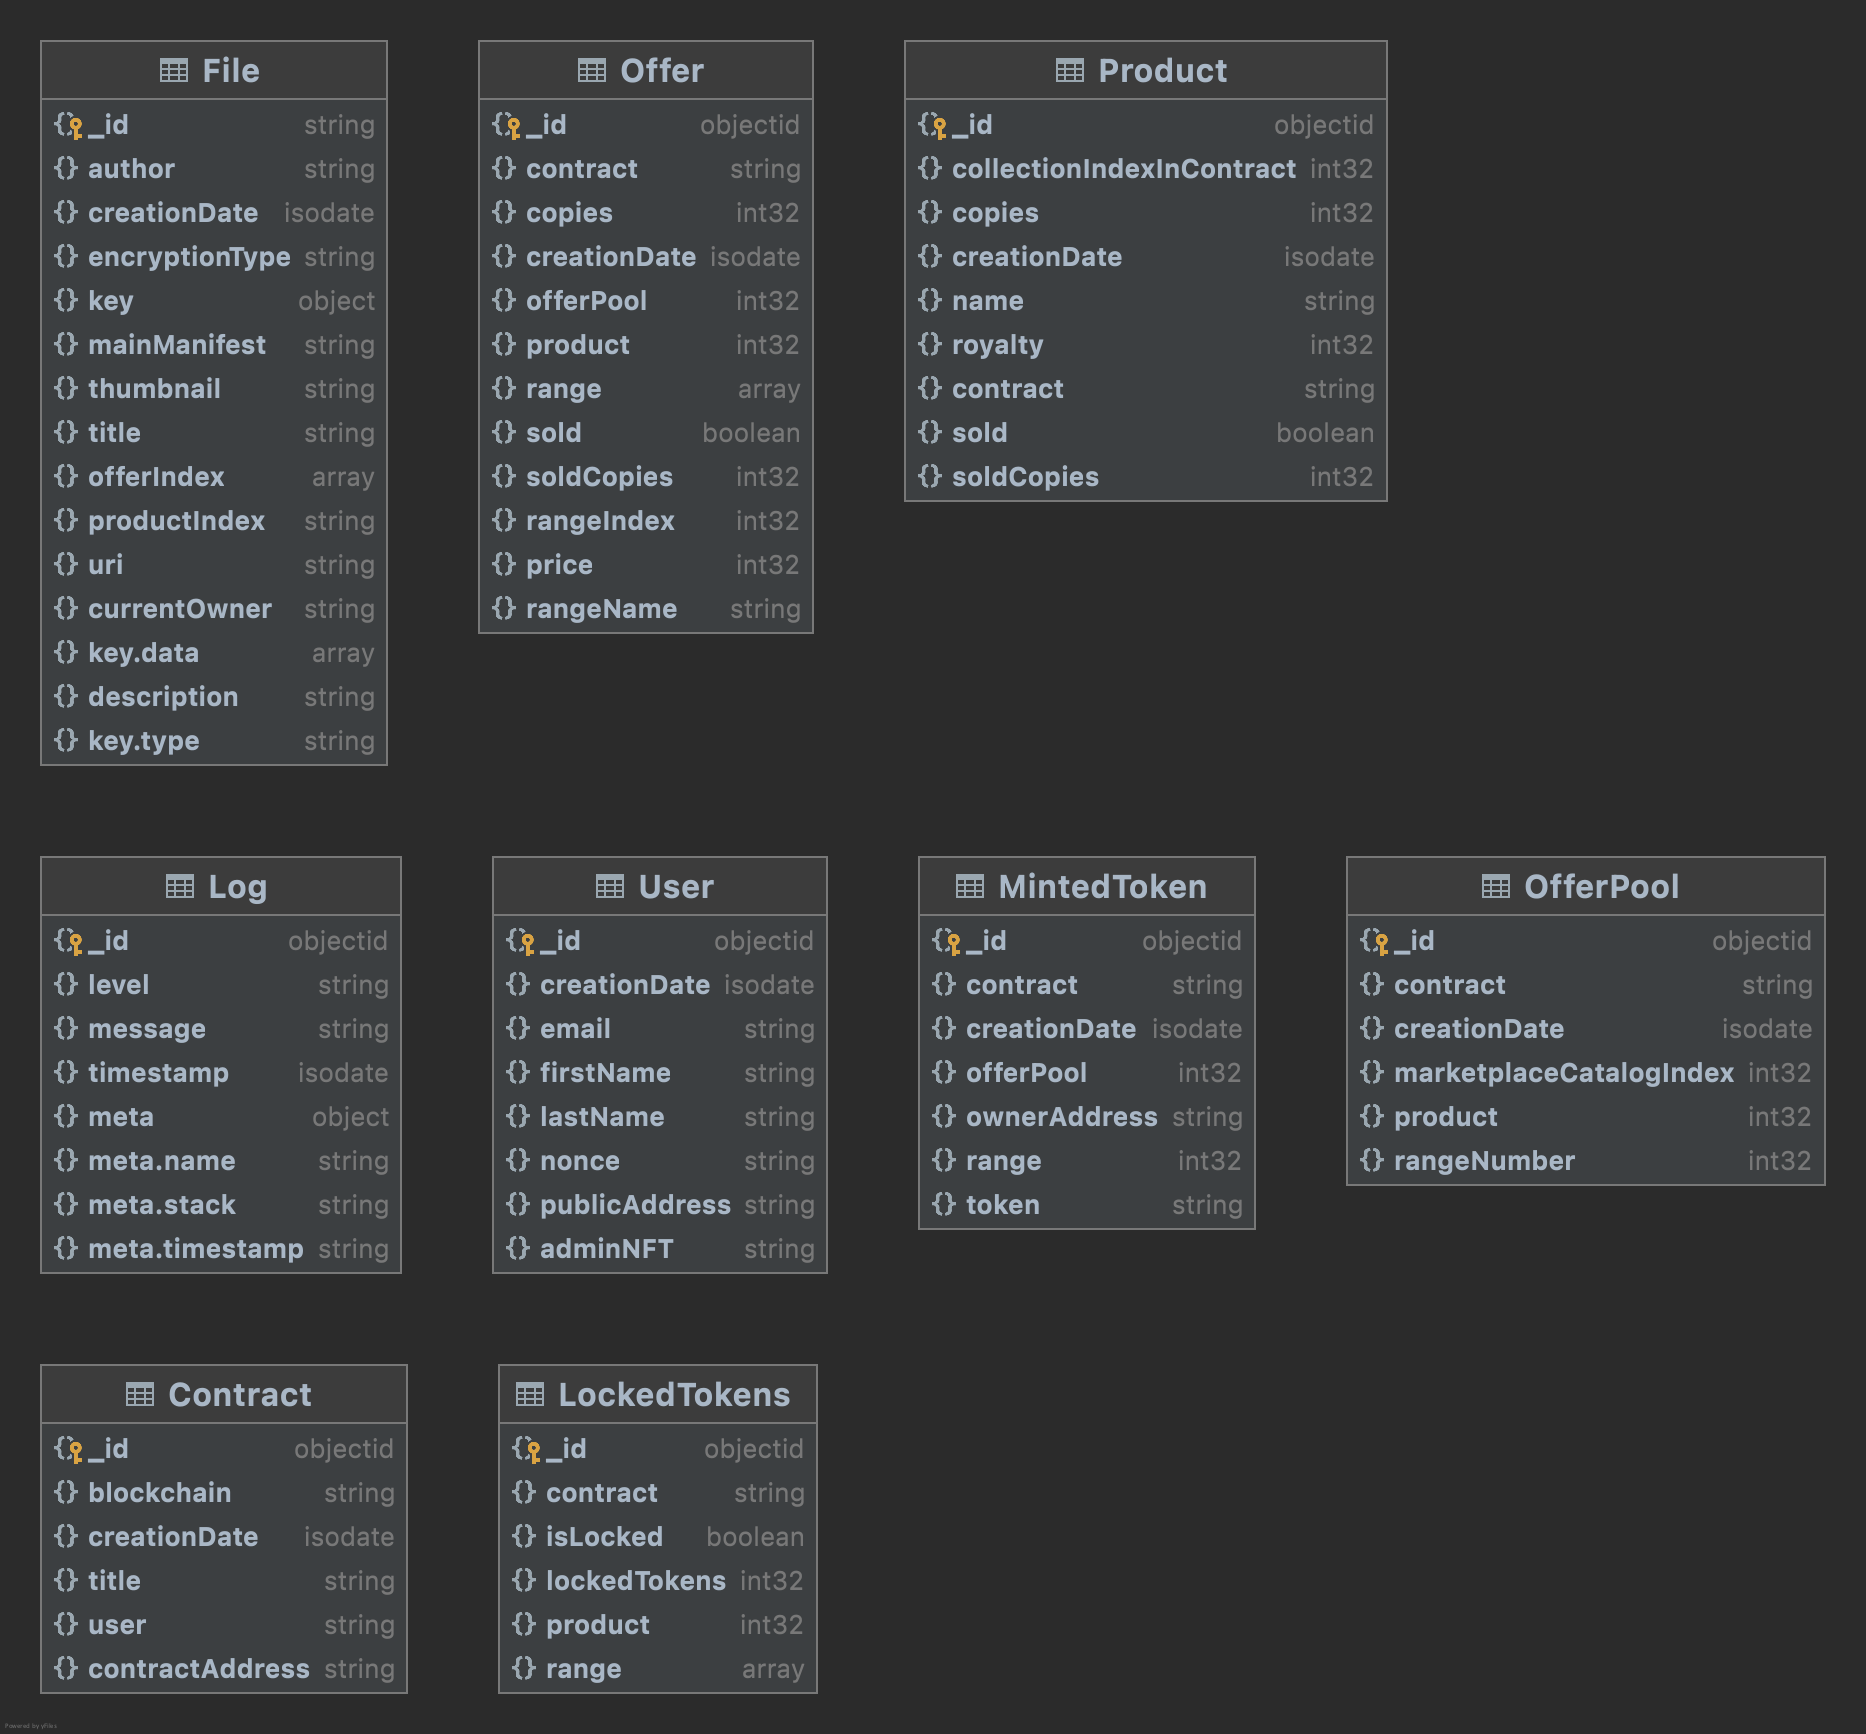
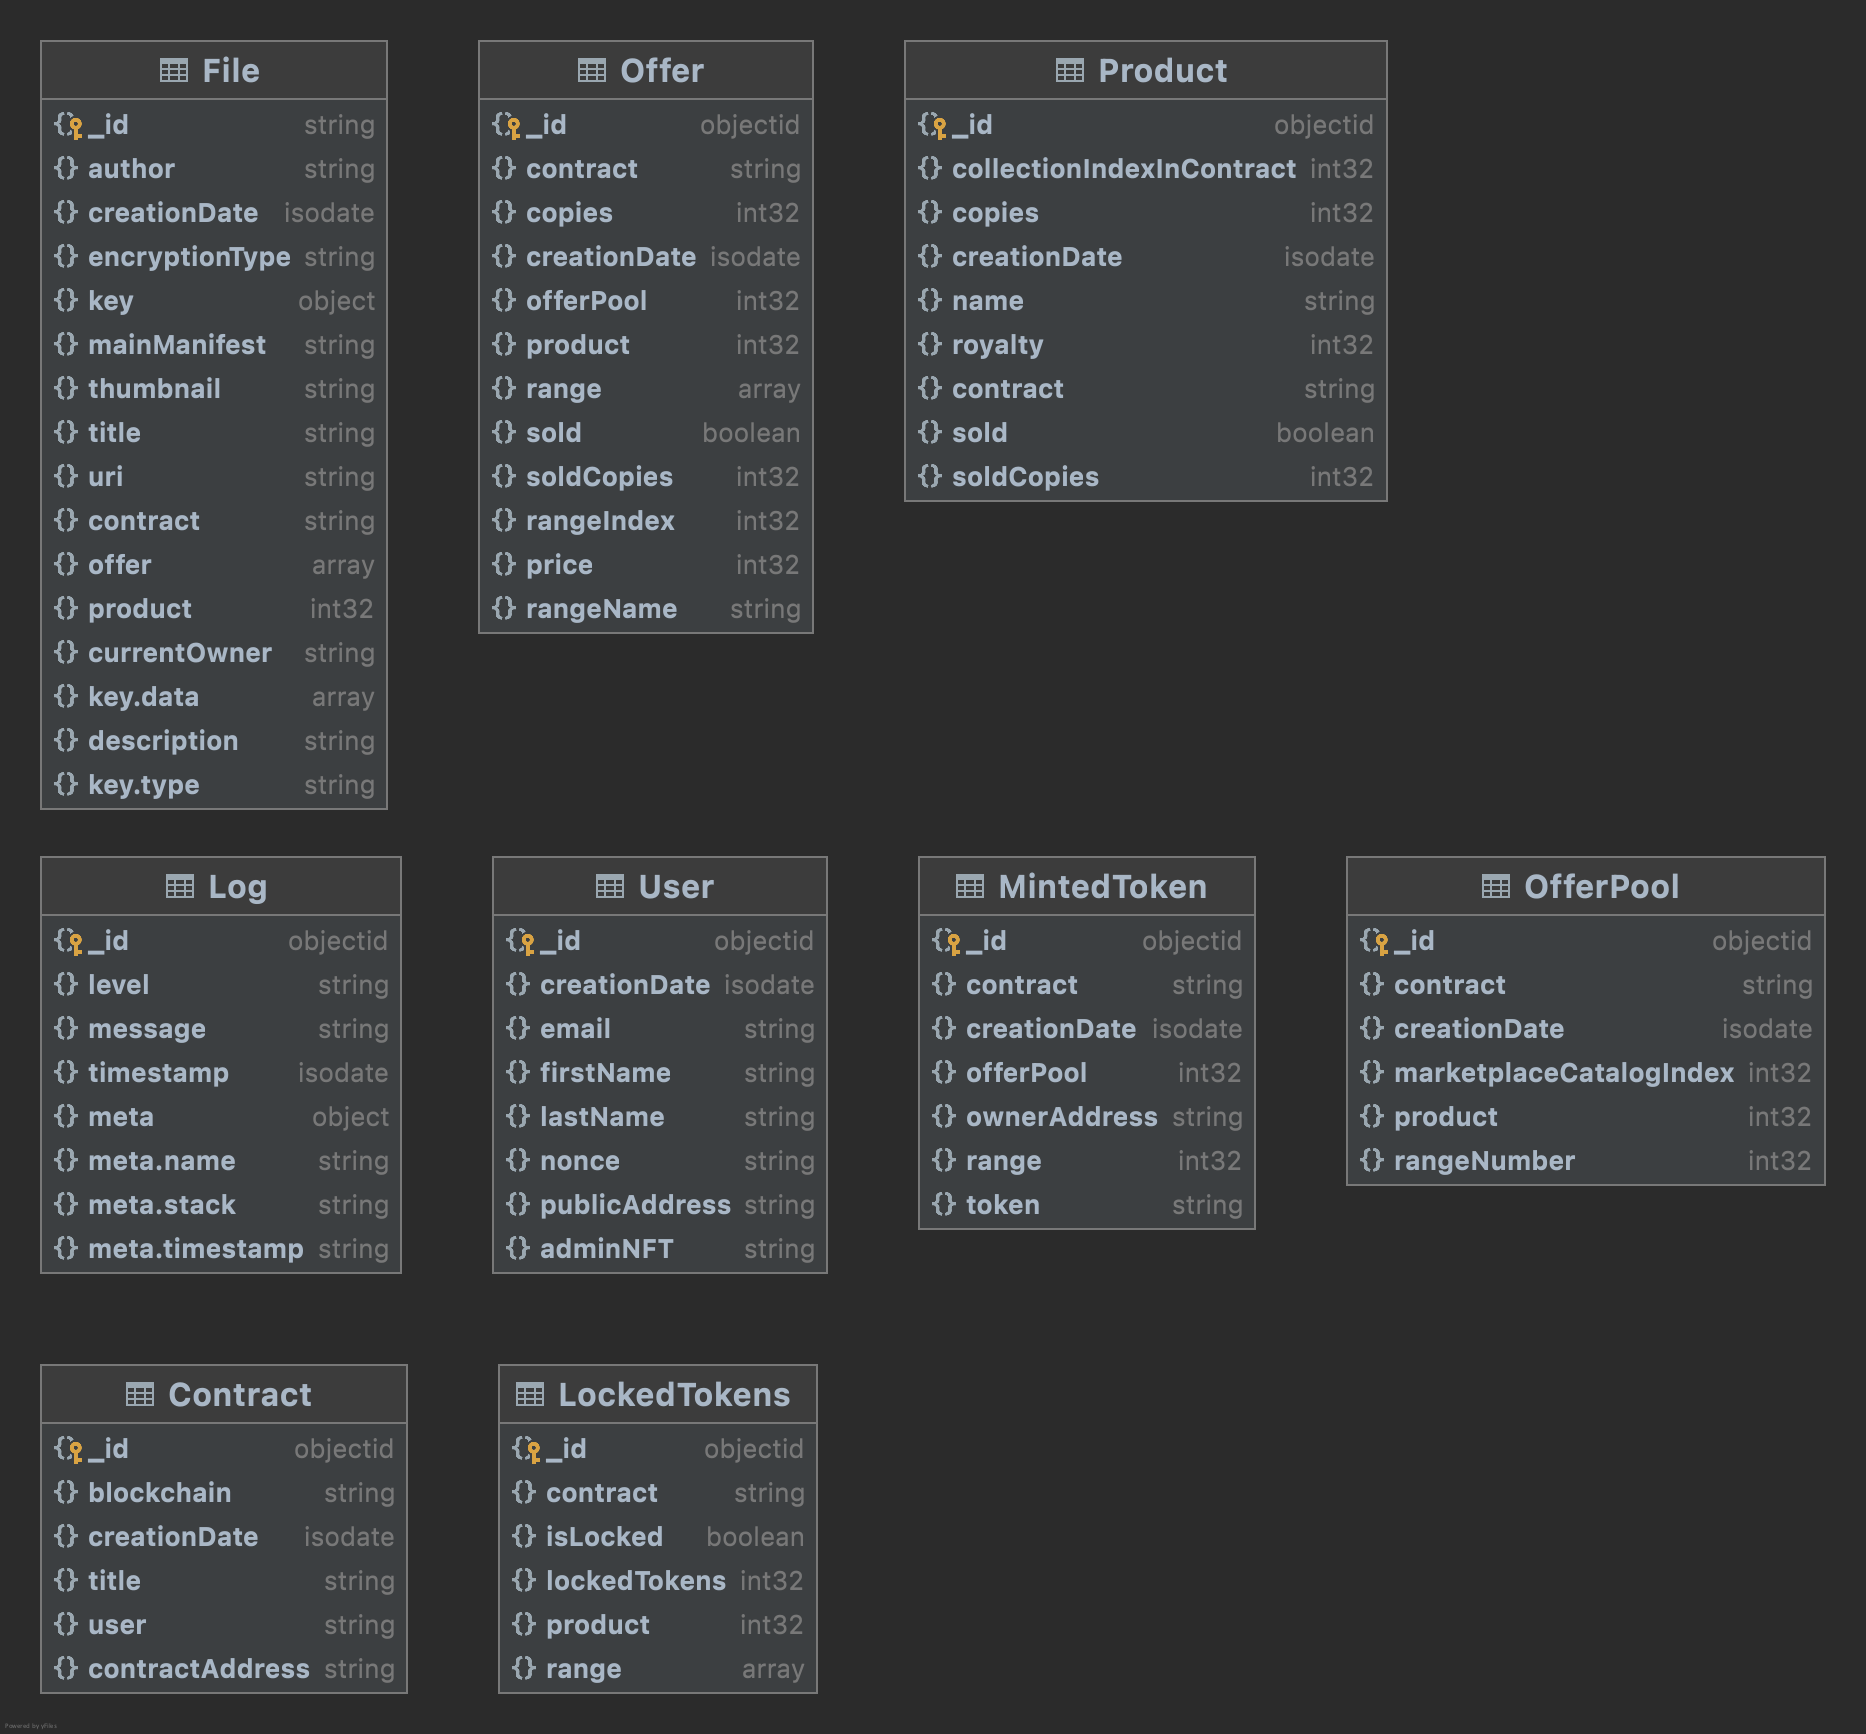
updating file DB schema; updating DB script; updating DB structure file; refactoring;

Changed region(s): [[0.0311, 0.2491, 0.2176, 0.4671], [0.1554, 0.436, 0.2176, 0.4671]]

diff --git a/demo-decrypt-node/scripts/dev/1.24.0.mongo.js b/demo-decrypt-node/scripts/dev/1.24.0.mongo.js
@@ -1,7 +1,15 @@
 // Removing redundant fields from Contract collection
 db.Contract.updateMany({}, { $unset: { copies: 1, royalty: 1, license: 1, price: 1 } });
 
-// Updating of all Files exist in DB by adding the new files and removing old one
-db.File.updateMany({}, { $unset: { contractAddress: 1 }, $set: { productIndex: '2', offerIndex: [11] } });
+// Updating of all Files exist in DB by adding the new fields and removing old one
+db.File.find().toArray().forEach((File) => {
+  const data = {
+    contract: File.contractAddress,
+    product: 2,
+    offer: [11]
+  };
+
+  db.File.updateOne({ _id: File._id }, { $unset: { contractAddress: 1 }, $set: data });
+});
 
 

diff --git a/demo-decrypt-node/bin/models/mintedToken.js b/demo-decrypt-node/bin/models/mintedToken.js
@@ -4,10 +4,10 @@ const { Schema } = mongoose;
 
 const MintedToken = new Schema({
   token: { type: String, required: true },
-  ownerAddress: { type: String, lowercase:true, required: true },
+  ownerAddress: { type: String, lowercase: true, required: true },
   offerPool: { type: Number, required: true },
   range: { type: Number, required: true },
-  contract: { type: String, lowercase:true, required: true },
+  contract: { type: String, lowercase: true, required: true },
   creationDate: { type: Date, default: Date.now }
 }, { versionKey: false });
 

diff --git a/demo-decrypt-node/bin/models/file.js b/demo-decrypt-node/bin/models/file.js
@@ -12,8 +12,9 @@ const File = new Schema({
   mainManifest: { type: String, required: true },
   thumbnail: { type: String, required: true },
   uri: { type: String, required: true },
-  productIndex: { type: Number, required: true },
-  offerIndex: { type: [Number], required: true },
+  contract: { type: String, required: true, lowercase: true },
+  product: { type: Number, required: true },
+  offer: { type: [Number], required: true },
   creationDate: { type: Date, default: Date.now }
 }, { versionKey: false });
 

diff --git a/demo-decrypt-node/bin/models/contract.js b/demo-decrypt-node/bin/models/contract.js
@@ -6,7 +6,7 @@ const Contract = new Schema({
   title: { type: String, required: true },
   user: { type: String, lowercase:true, required: true },
   blockchain: { type: String, required: true },
-  contractAddress: { type: String, required: true, lowercase:true, unique: true },
+  contractAddress: { type: String, required: true, lowercase: true, unique: true },
   creationDate: { type: Date, default: Date.now }
 }, { versionKey: false });
 
